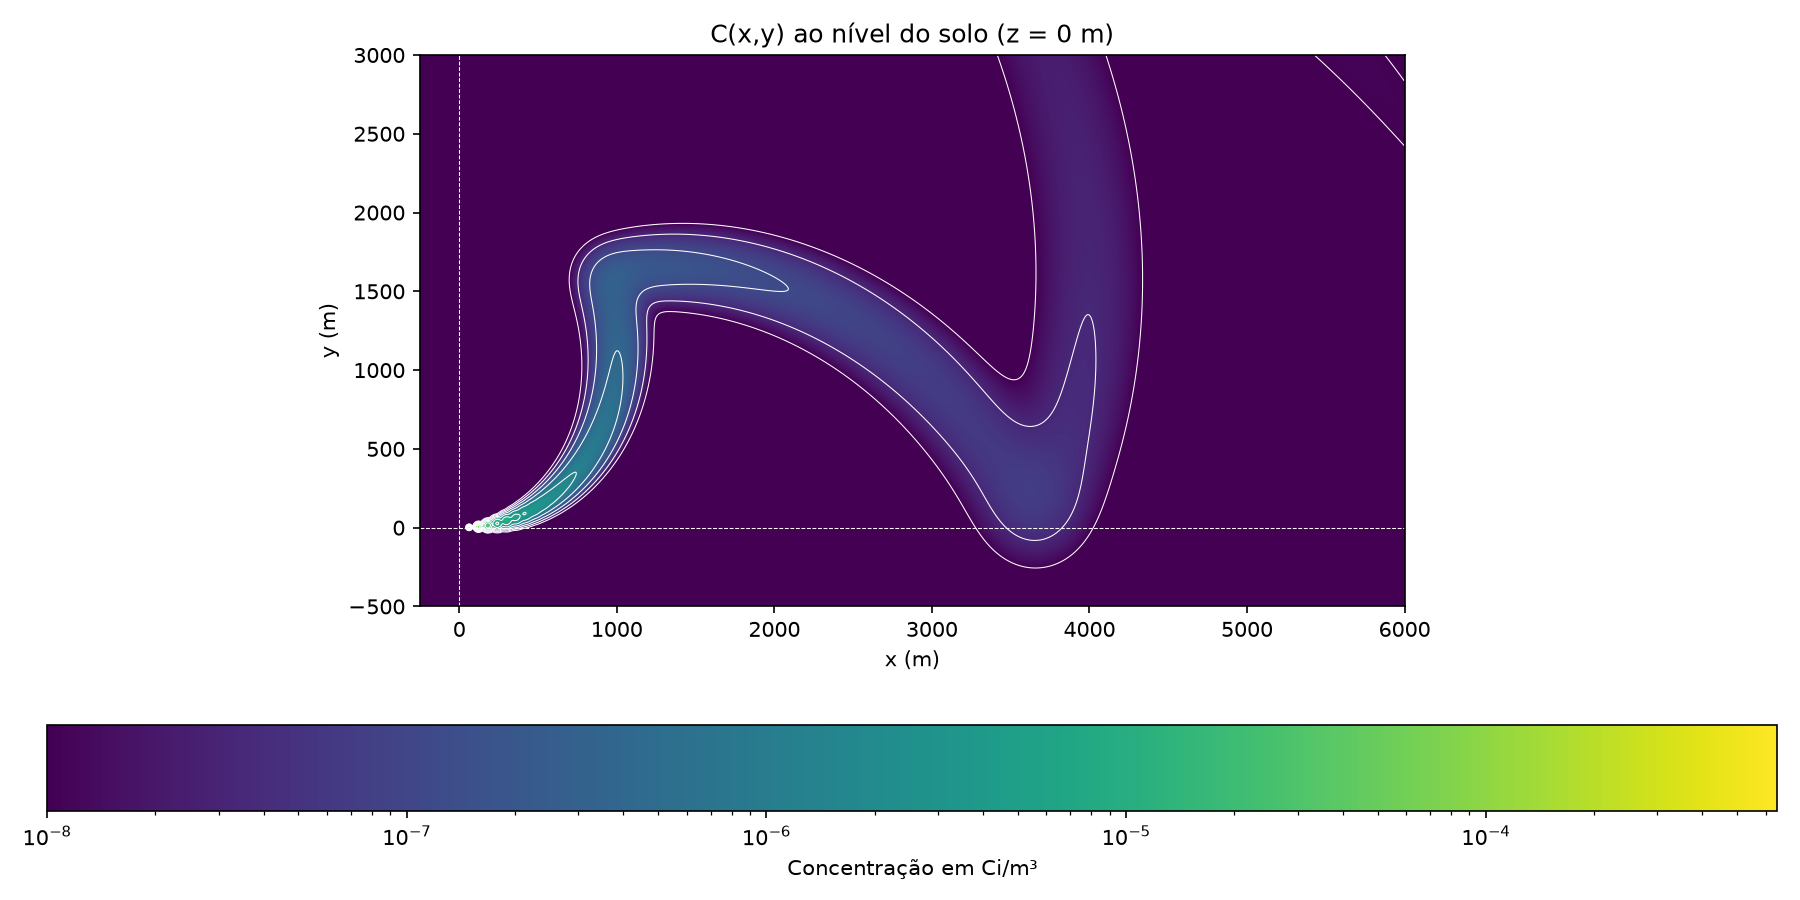
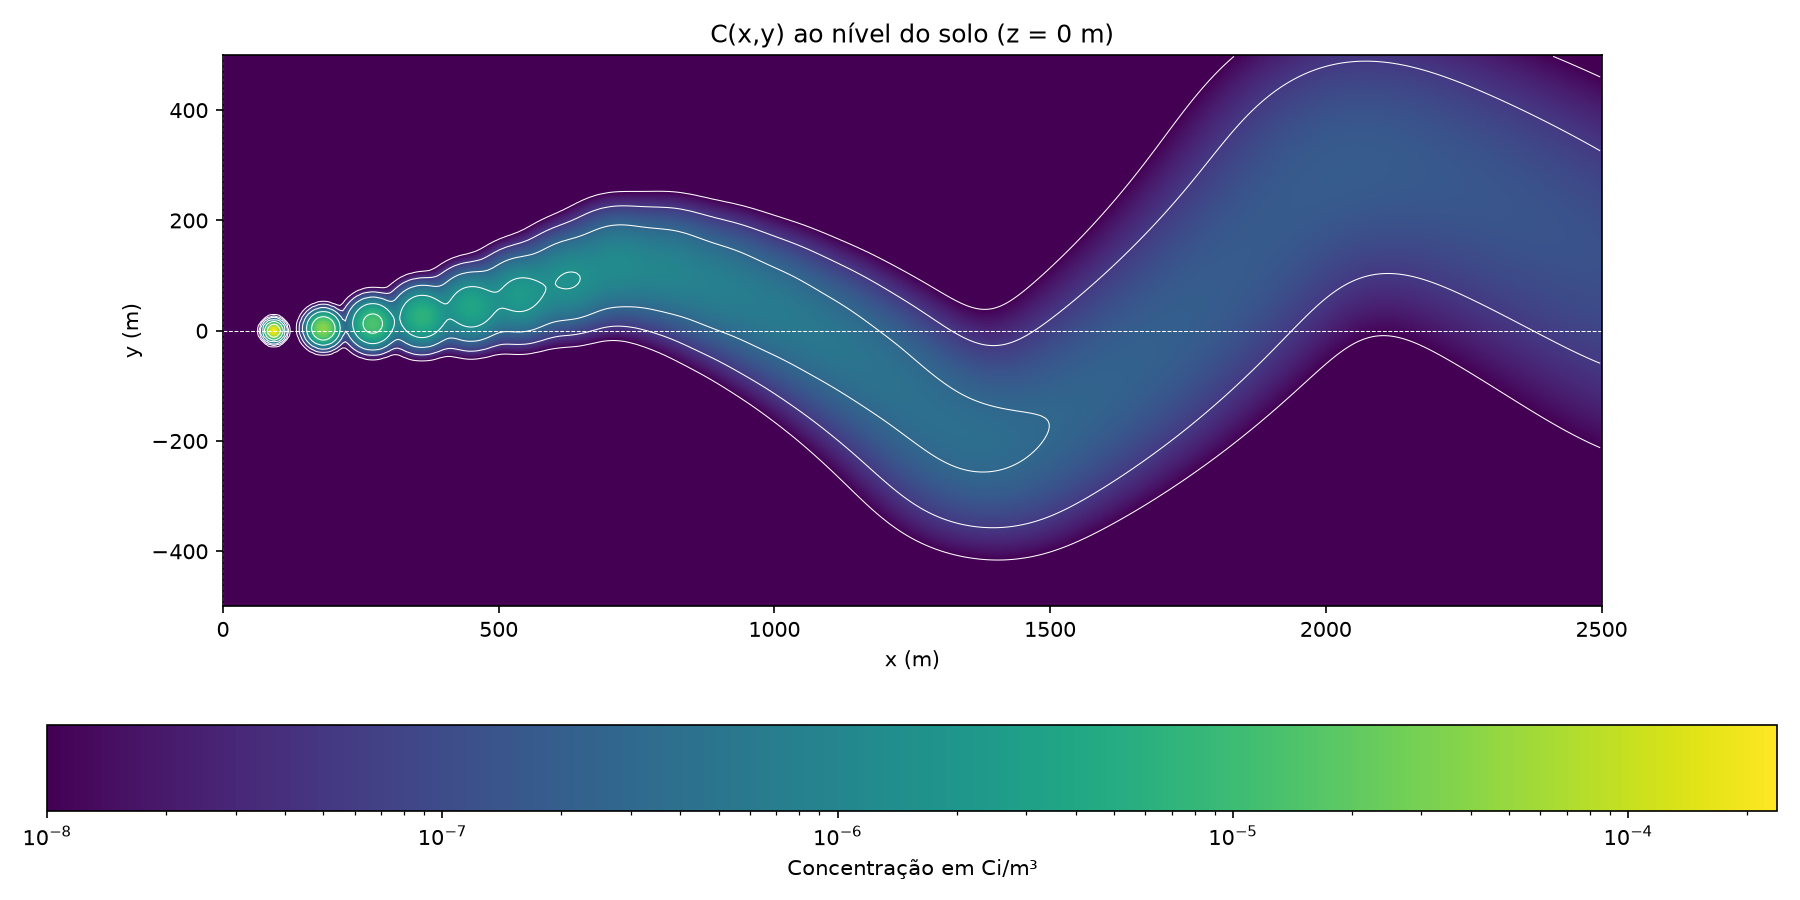
ajustes angulo vento

diff --git a/config.py b/config.py
@@ -17,29 +17,29 @@ class Config:
 
     seed: int = 1
 
-    total_eventos: int = 120            #[eventos]
-    intervalo_tempo_evento: int = 60    #[segundos, para cada evento]
+    total_eventos: int = 30             #[eventos]
+    intervalo_tempo_evento: int = 90    #[segundos, para cada evento]
 
-    vento_teste_fixo: int = 1       #modulo da velocidade do vento, em m/min
-    emissao_teste_fixo: int = 1         
+    vento_teste_fixo: int = 1           #modulo da velocidade do vento, em m/min
+    emissao_teste_fixo: int = 1       
     classe_teste_fixo: str = "C"
 
-    dim_eixo_x_pos: int = 6000      # [m] inteiro >= 1 e multiplo de passo_x
-    dim_eixo_x_neg: int = 250       # [m] inteiro >= 0 e multiplo de passo_x
-    dim_eixo_y_pos: int = 3000      # [m] inteiro >= 1 e multiplo de passo_y
+    dim_eixo_x_pos: int = 2500      # [m] inteiro >= 1 e multiplo de passo_x
+    dim_eixo_x_neg: int = 0         # [m] inteiro >= 0 e multiplo de passo_x
+    dim_eixo_y_pos: int = 500       # [m] inteiro >= 1 e multiplo de passo_y
     dim_eixo_y_neg: int = 500       # [m] inteiro >= 0 e multiplo de passo_y
     passo_x: int = 5                # [m] inteiro >= 1
     passo_y: int = 5                # [m] inteiro >= 1
     limite_pontos: int = 1000000    # limite de pontos por malha calculada
 
     simular_acumulacao_resultante: bool = True
-    simular_evolucao_temporal: bool = True
+    simular_evolucao_temporal: bool = False
 
     gamma: float = 0.3              # 0.3 a 0.7; usado apenas na escala convencional
     usar_escala_logaritmica: bool = True
     vmin_logaritmico: float = 1e-8
     exibir_contornos_logaritmicos: bool = True
-    quantidade_contornos_logaritmicos: int = 10
+    quantidade_contornos_logaritmicos: int = 7
 
     diretorio_dados_parciais: str = "dados_parciais"
     diretorio_plotagens_parciais: str = "plotagens_parciais"

diff --git a/main.py b/main.py
@@ -27,8 +27,8 @@ if __name__ == "__main__":
     vmax_referencia = None
 
     lista_puffs: List[Puff] = []
-    
-    ultimo_angulo = 0
+
+    amplitude_variacao_angular = 10.0
 
     for evento in range(config.total_eventos):
 
@@ -42,14 +42,22 @@ if __name__ == "__main__":
         atividade_emitida = config.emissao_teste_fixo
         velocidade_vento = config.vento_teste_fixo
         
-        if evento / config.total_eventos < 0.25:
-            ultimo_angulo = ultimo_angulo + 2
-        elif evento / config.total_eventos < 0.5:
-            ultimo_angulo = ultimo_angulo - 2
-        elif evento / config.total_eventos < 0.75:
-            ultimo_angulo = ultimo_angulo + 2
-        else:
-            ultimo_angulo = ultimo_angulo - 2
+        progresso = (
+            evento / (config.total_eventos - 1)
+            if config.total_eventos > 1
+            else 0.0
+        )
+        angulo_vento_evento = np.interp(
+            progresso,
+            [0.0, 0.25, 0.50, 0.75, 1.0],
+            [
+                0.0,
+                amplitude_variacao_angular,
+                -amplitude_variacao_angular,
+                amplitude_variacao_angular,
+                0.0,
+            ],
+        )
 
         classe_estabilidade = config.classe_teste_fixo
 
@@ -58,7 +66,7 @@ if __name__ == "__main__":
             idade = idade,
             atividade_emitida = atividade_emitida,
             velocidade_vento = velocidade_vento,
-            angulo_vento = ultimo_angulo,
+            angulo_vento=angulo_vento_evento,
             classe_estabilidade = classe_estabilidade
         )
 
